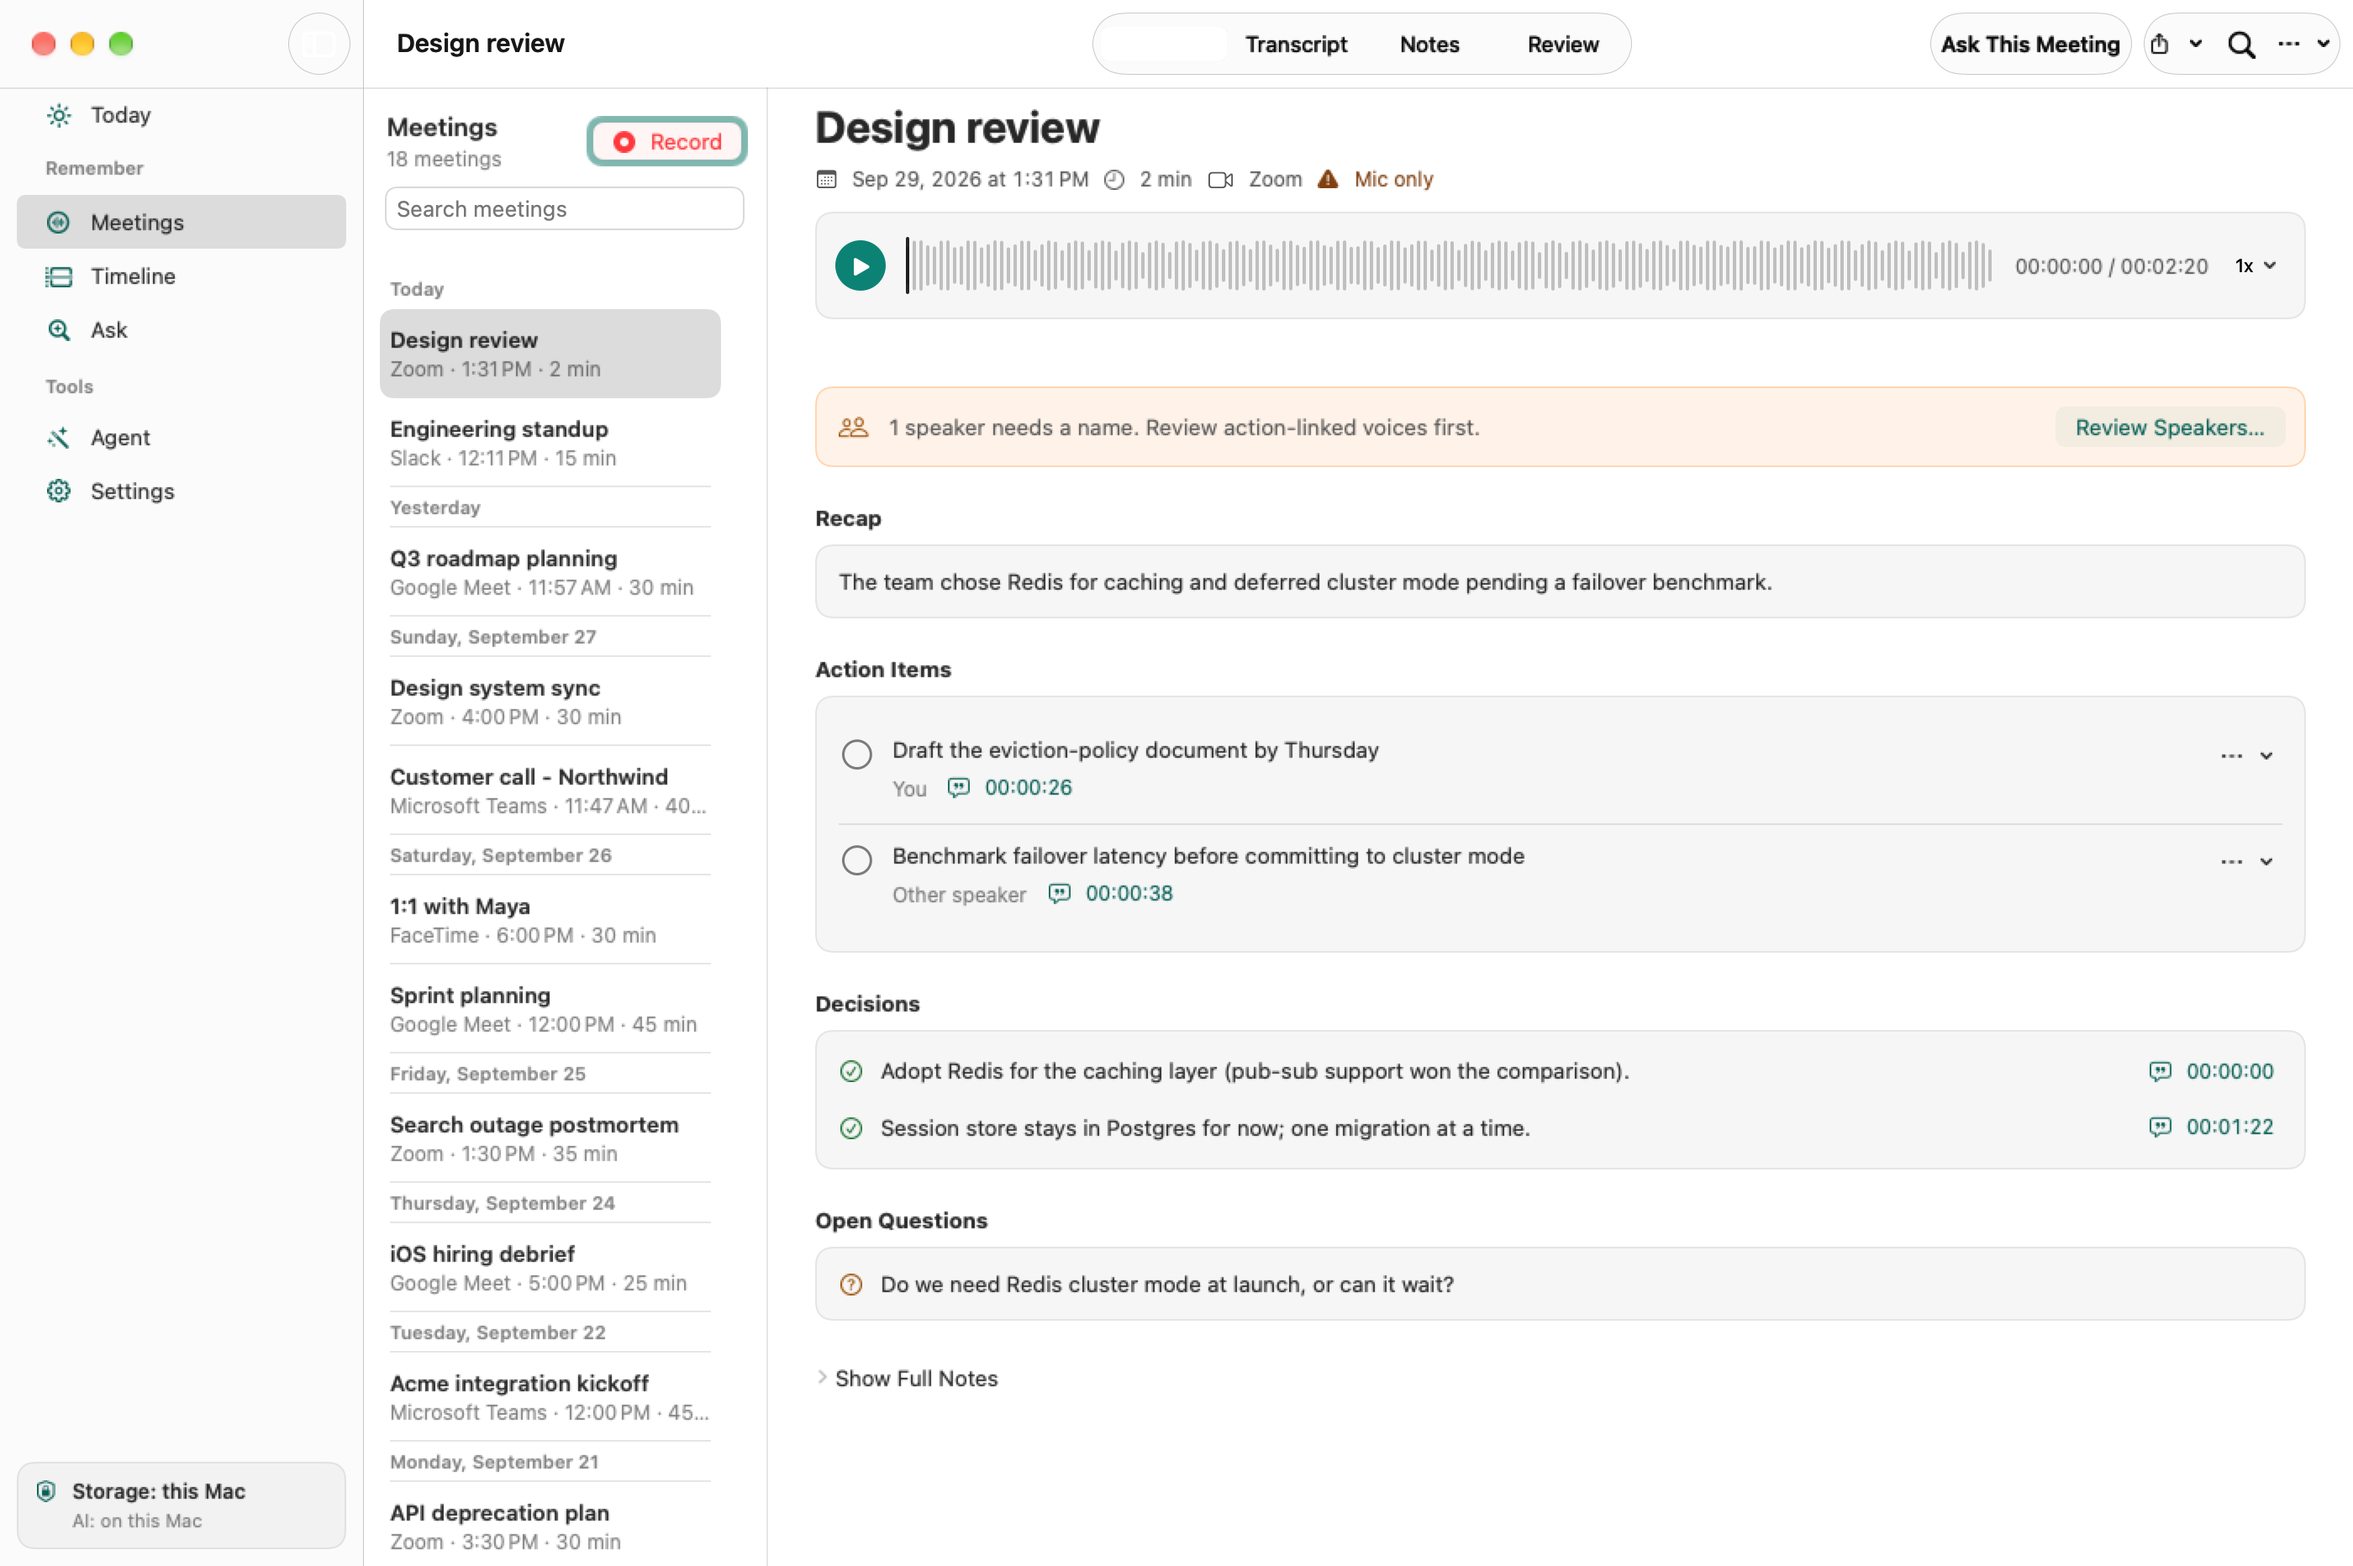
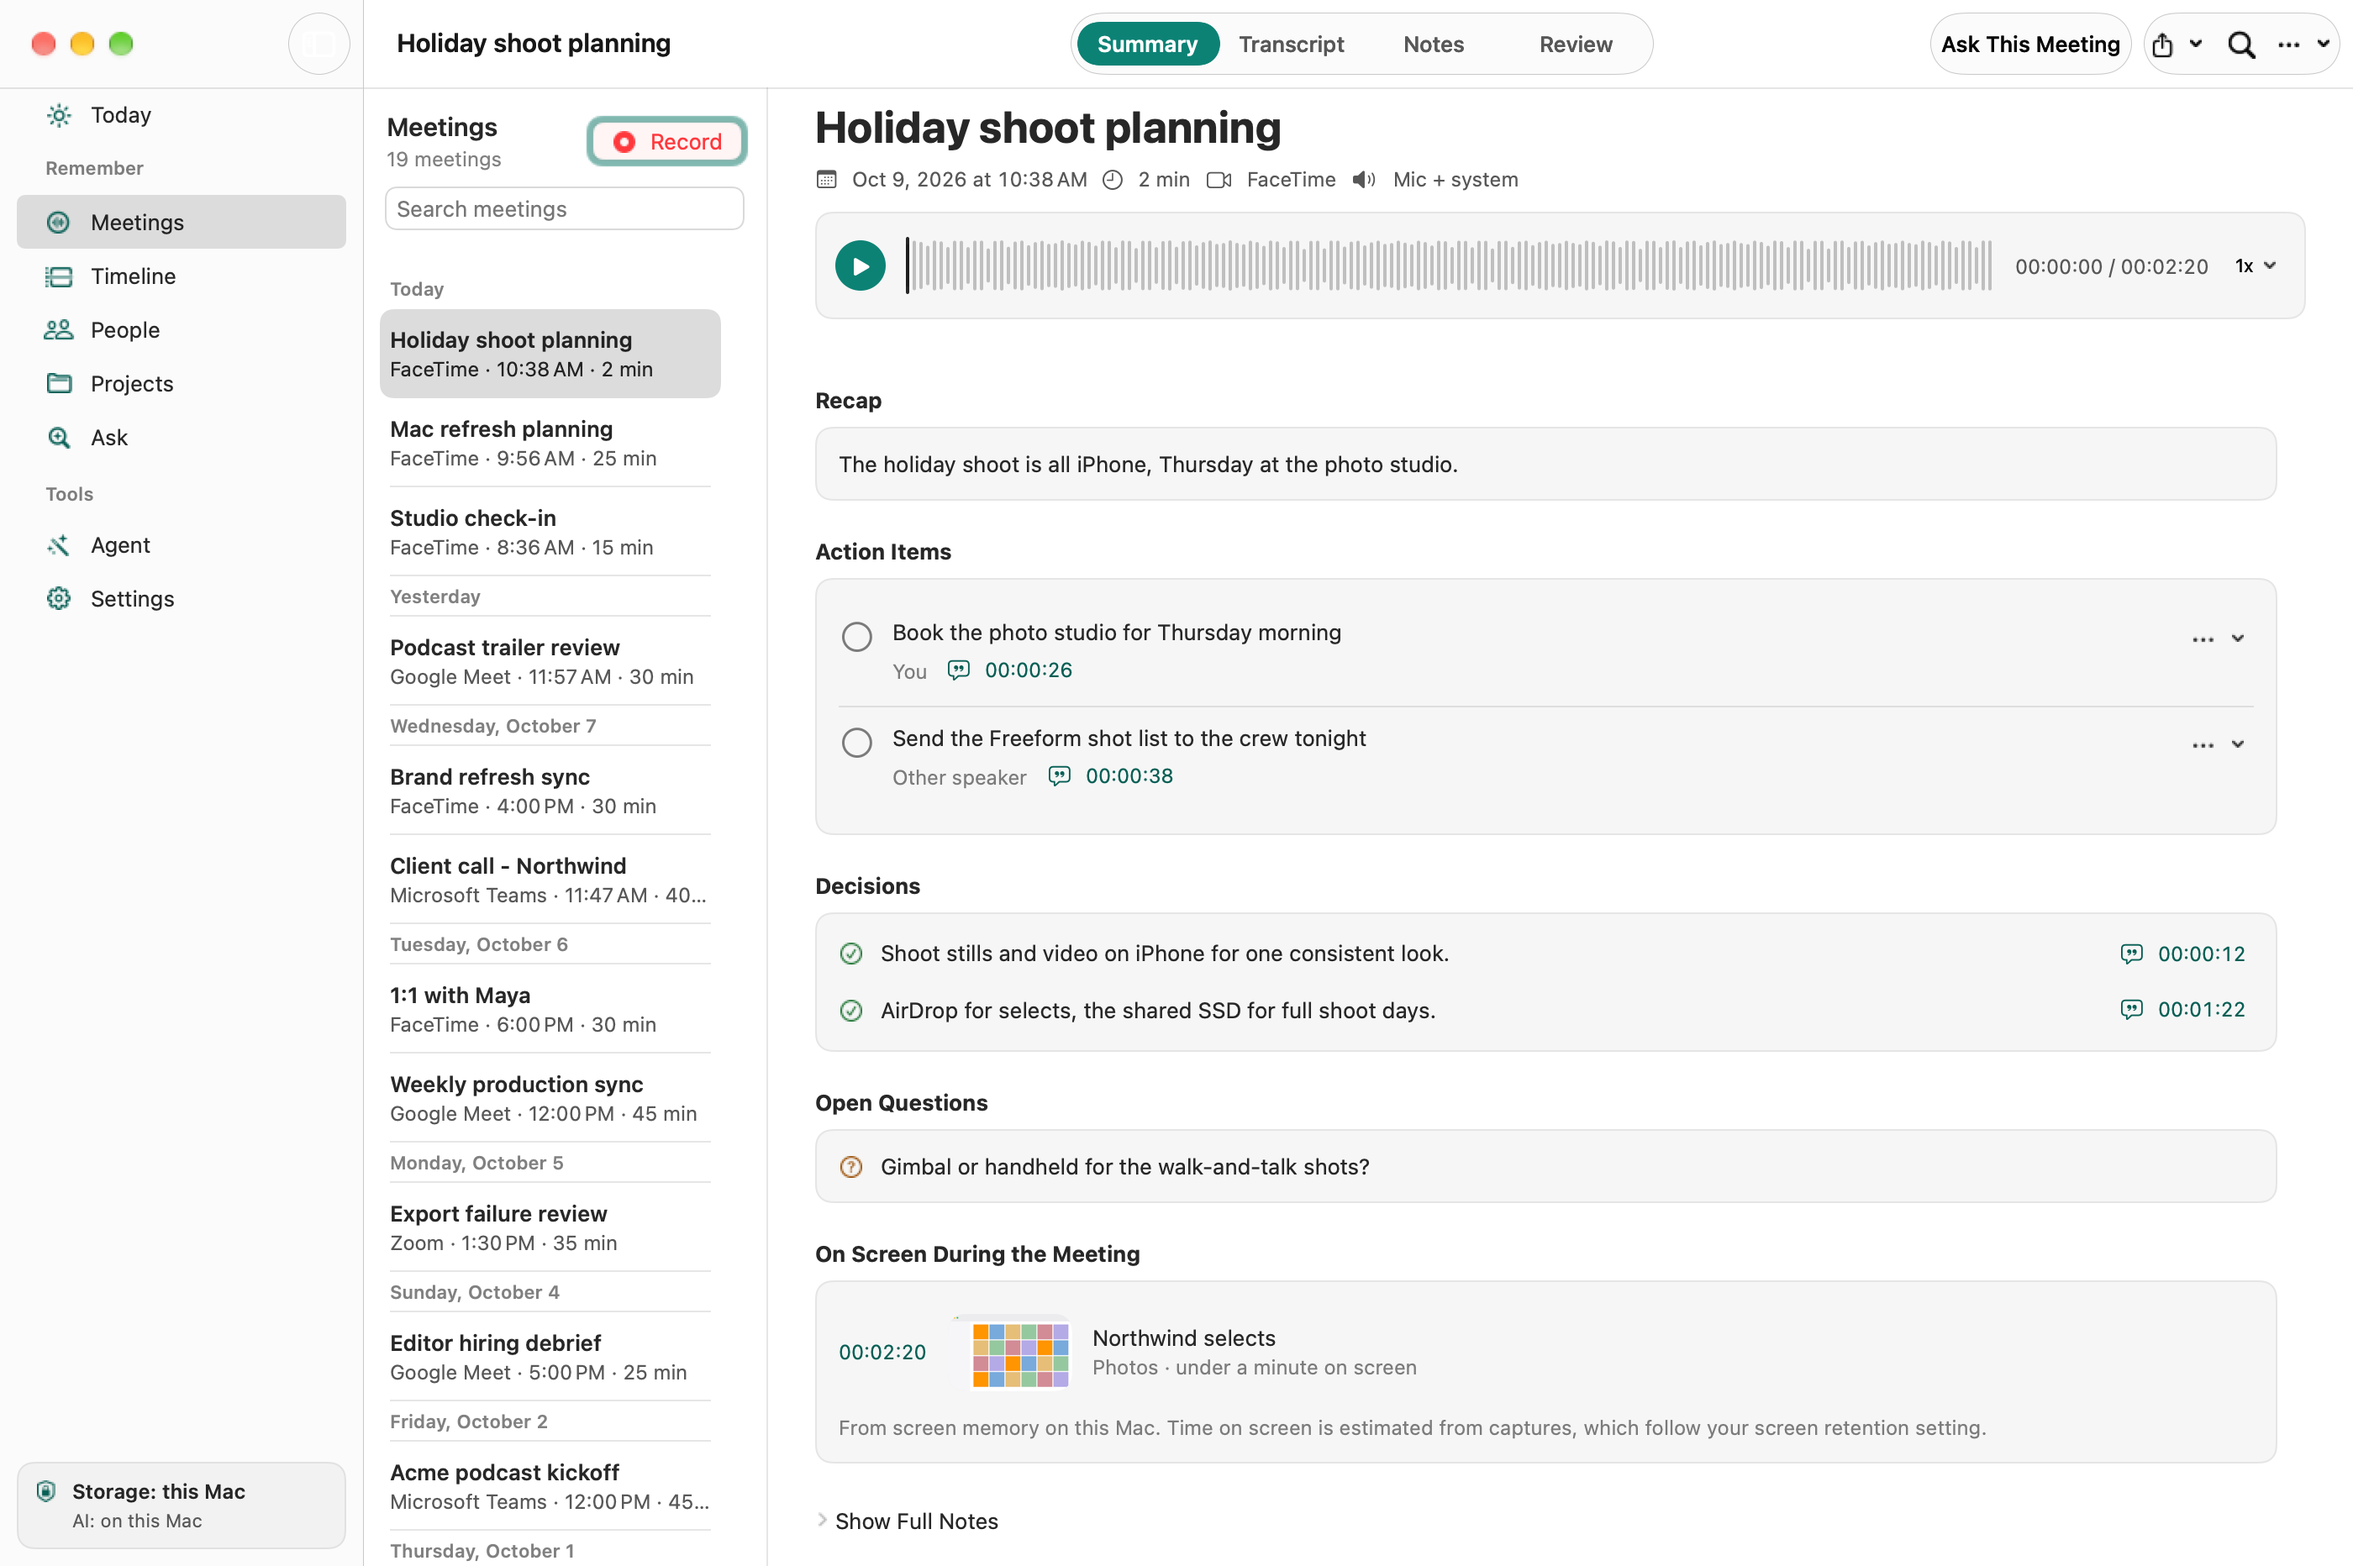
Refresh homepage screenshots with varied studio examples
Recapture the homepage set from the studio profile on 0.10.2 in both
appearances, so each frame shows its own example: a "MacBook" search in the
hero, the holiday shoot meeting, a "captions" search for saved screen text,
and Today. The captures are current UI (People and Projects in the sidebar,
the selected toolbar segment drawn correctly).

The saved-screen files move to a neutral screen-search name now that the
example is no longer onboarding. Alt text and the caption follow the new
content, and the homepage date moves to today for the sitemap.

diff --git a/web/index.html b/web/index.html
@@ -90,7 +90,7 @@
         "publisher": {
           "@id": "https://www.lokalbot.com/#organization"
         },
-        "dateModified": "2026-10-01",
+        "dateModified": "2026-10-09",
         "image": "https://www.lokalbot.com/assets/screens/quick-recall.png",
         "screenshot": "https://www.lokalbot.com/assets/screens/quick-recall.png",
         "sameAs": [
@@ -251,7 +251,7 @@
             <source srcset="assets/screens/quick-recall-phone-light.png" media="(max-width: 520px) and (prefers-color-scheme: light)" width="1600" height="1370" />
             <source srcset="assets/screens/quick-recall-phone.png" media="(max-width: 520px)" width="1600" height="1370" />
             <source srcset="assets/screens/quick-recall-light.png" media="(prefers-color-scheme: light)" width="2640" height="2048" />
-            <img src="assets/screens/quick-recall.png" width="2640" height="2048" alt="A Redis search shows a saved Slack moment, Safari screen text, meeting transcripts, and a separate Ask action." fetchpriority="high" />
+            <img src="assets/screens/quick-recall.png" width="2640" height="2048" alt="A MacBook search shows a saved Numbers budget, a Safari comparison page, FaceTime call transcripts, and a separate Ask action." fetchpriority="high" />
           </picture>
         </a>
         <figcaption>One search across saved moments, screen text, and meetings.</figcaption>
@@ -286,7 +286,7 @@
           <a class="home-image-link" href="assets/screens/meetings-summary.png" target="_blank" rel="noopener" aria-label="Open the full-size meeting summary screenshot">
             <picture>
               <source srcset="assets/screens/meetings-summary-light.png" media="(prefers-color-scheme: light)" width="2800" height="1864" />
-              <img src="assets/screens/meetings-summary.png" width="2800" height="1864" alt="A design review with action items, decisions about Redis and Postgres, and timestamps linking back to the audio." loading="lazy" decoding="async" />
+              <img src="assets/screens/meetings-summary.png" width="2800" height="1864" alt="A holiday shoot planning call with action items, decisions about shooting on iPhone, and timestamps linking back to the audio." loading="lazy" decoding="async" />
             </picture>
           </a>
           <figcaption>Decisions and action items link back to the recording.</figcaption>
@@ -301,15 +301,15 @@
           <p class="home-example__detail">Screen text and screenshots are optional. You choose which apps and sites to exclude.</p>
         </div>
         <figure class="home-shot home-shot--recall">
-          <a class="home-image-link" href="assets/screens/screen-search-onboarding.png" target="_blank" rel="noopener" aria-label="Open the full-size saved screen search screenshot">
+          <a class="home-image-link" href="assets/screens/screen-search.png" target="_blank" rel="noopener" aria-label="Open the full-size saved screen search screenshot">
             <picture>
-              <source srcset="assets/screens/screen-search-onboarding-phone-light.png" media="(max-width: 520px) and (prefers-color-scheme: light)" width="1600" height="1370" />
-              <source srcset="assets/screens/screen-search-onboarding-phone.png" media="(max-width: 520px)" width="1600" height="1370" />
-              <source srcset="assets/screens/screen-search-onboarding-light.png" media="(prefers-color-scheme: light)" width="2640" height="2048" />
-              <img src="assets/screens/screen-search-onboarding.png" width="2640" height="2048" alt="Searching for onboarding finds the Q3 planning doc from Notion and related meetings, with a separator after every result." loading="lazy" decoding="async" />
+              <source srcset="assets/screens/screen-search-phone-light.png" media="(max-width: 520px) and (prefers-color-scheme: light)" width="1600" height="1370" />
+              <source srcset="assets/screens/screen-search-phone.png" media="(max-width: 520px)" width="1600" height="1370" />
+              <source srcset="assets/screens/screen-search-light.png" media="(prefers-color-scheme: light)" width="2640" height="2048" />
+              <img src="assets/screens/screen-search.png" width="2640" height="2048" alt="Searching for captions finds the delivery checklist from Pages and related meetings, with a separator after every result." loading="lazy" decoding="async" />
             </picture>
           </a>
-          <figcaption>“Onboarding” finds the Q3 planning doc you had open in Notion.</figcaption>
+          <figcaption>“Captions” finds the delivery checklist you had open in Pages.</figcaption>
         </figure>
       </article>
 

diff --git a/Scripts/render_web.py b/Scripts/render_web.py
@@ -49,7 +49,7 @@ ORGANIZATION = {
 # Hand-written pages outside the generator, with the date each last changed.
 # Bump a date when you edit that page so the sitemap's lastmod stays honest.
 STATIC_PAGES = {
-    "": "2026-10-05",
+    "": "2026-10-09",
     "privacy": "2026-10-02",
     "terms": "2026-09-24",
     "support": "2026-09-24",
